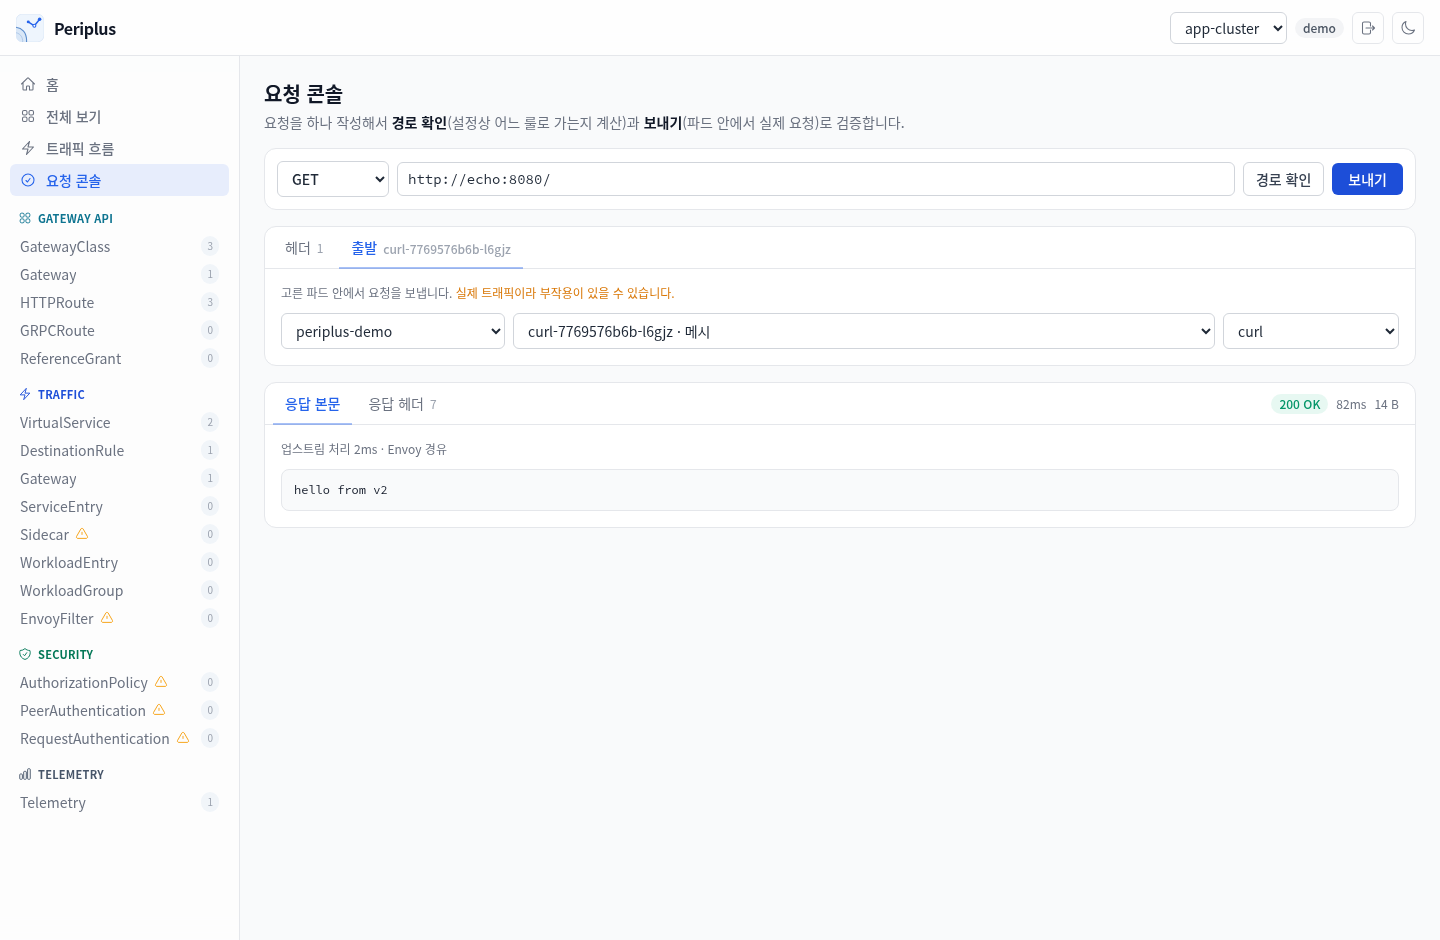
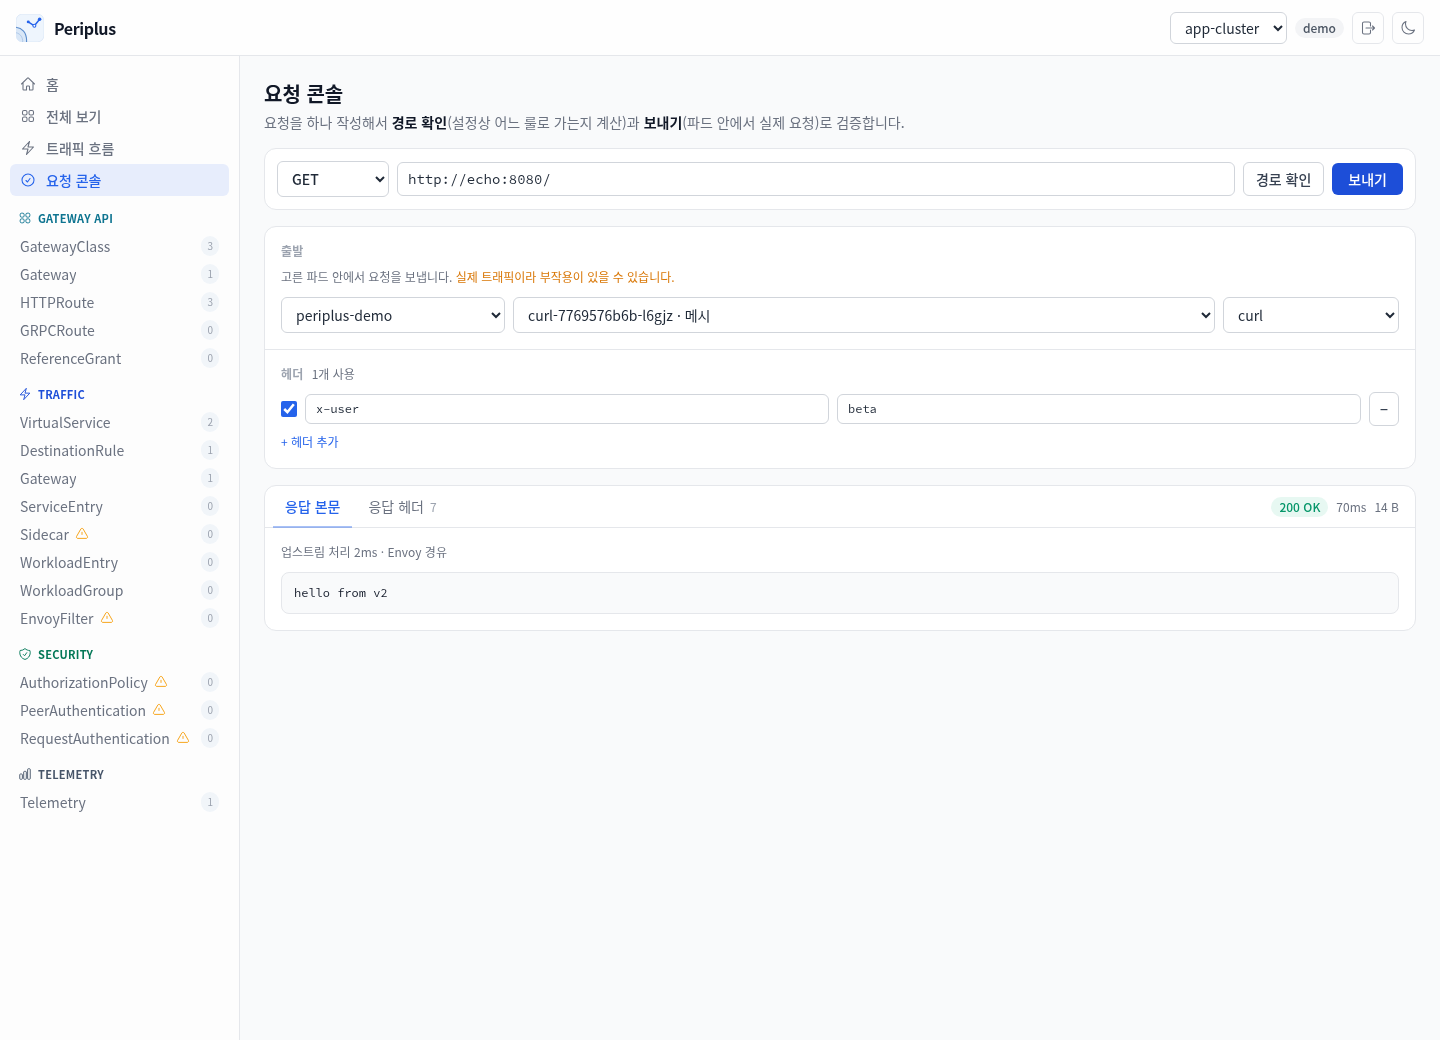
요청 콘솔: 요청 편집 탭을 없애고 한 화면에 펼침
출발지를 먼저 고르고 그 아래에서 헤더·본문을 채우는 순서가 실제 사용 흐름과
맞다. 탭 전환 없이 한눈에 보이므로 무엇이 설정돼 있는지 놓치지 않는다.
(응답은 결과 종류가 달라 탭 유지 — 응답 본문·응답 헤더·경로 분석)

diff --git a/web/src/pages/RouteCheck.tsx b/web/src/pages/RouteCheck.tsx
@@ -9,7 +9,6 @@ import { Icon } from '../components/icons'
 
 const METHODS = ['GET', 'POST', 'PUT', 'PATCH', 'DELETE', 'HEAD', 'OPTIONS']
 type KV = { key: string; value: string; on: boolean }
-type ReqTab = 'headers' | 'body' | 'source'
 type ResTab = 'body' | 'headers' | 'route'
 
 // URL 한 줄에서 시뮬레이터가 쓸 호스트/경로를 뽑는다 (Istio 호스트에는 포트가 없다).
@@ -36,7 +35,6 @@ export function RouteCheck() {
   const [pod, setPod] = useState('')
   const [container, setContainer] = useState('')
 
-  const [reqTab, setReqTab] = useState<ReqTab>('headers')
   const [resTab, setResTab] = useState<ResTab>('route')
   const [route, setRoute] = useState<RouteMatchResult | null>(null)
   const [res, setRes] = useState<RequestTestResult | null>(null)
@@ -109,7 +107,7 @@ export function RouteCheck() {
         <button
           onClick={send}
           disabled={!canSend}
-          title={!testerOn ? '요청 테스터가 꺼져 있습니다 — 출발 탭 참고' : !ns || !pod ? '출발 탭에서 파드를 고르세요' : ''}
+          title={!testerOn ? '요청 테스터가 꺼져 있습니다 — 아래 출발 항목 참고' : !ns || !pod ? '아래 출발에서 파드를 고르세요' : ''}
           className="btn-primary shrink-0 disabled:opacity-40"
         >
           {busy === 'send' ? '보내는 중…' : '보내기'}
@@ -118,39 +116,34 @@ export function RouteCheck() {
       {url && !parsed && <p className="text-sm text-red-600 dark:text-red-400">URL 형식을 확인하세요.</p>}
       {error && <p className="text-sm text-red-600 dark:text-red-400">{error}</p>}
 
-      {/* 요청 편집 */}
+      {/* 요청 편집 — 출발지를 먼저 정하고 헤더·본문을 아래에서 채운다 */}
       <div className="panel rounded-xl">
-        <Tabs
-          tabs={[
-            { id: 'headers', label: '헤더', count: activeHeaders.length },
-            ...(hasBody ? [{ id: 'body', label: '본문' as const }] : []),
-            { id: 'source', label: '출발', hint: pod || (testerOn ? '미선택' : '꺼짐') },
-          ]}
-          active={reqTab}
-          onChange={(t) => setReqTab(t as ReqTab)}
-        />
-        <div className="p-4">
-          {reqTab === 'headers' && <HeaderEditor headers={headers} setHeaders={setHeaders} />}
-          {reqTab === 'body' && hasBody && (
+        <Section title="출발" hint={testerOn ? undefined : '요청 테스터 꺼짐 — 경로 확인만 가능'}>
+          <SourcePicker
+            enabled={testerOn}
+            isAdmin={caps.data?.role === 'admin'}
+            ns={ns} setNs={(v) => { setNs(v); setPod('') }}
+            pod={pod} setPod={setPod}
+            container={container} setContainer={setContainer}
+          />
+        </Section>
+
+        <Section title="헤더" hint={activeHeaders.length ? `${activeHeaders.length}개 사용` : undefined} bordered>
+          <HeaderEditor headers={headers} setHeaders={setHeaders} />
+        </Section>
+
+        {hasBody && (
+          <Section title="본문" bordered>
             <textarea
               value={body}
               onChange={(e) => setBody(e.target.value)}
               placeholder='{"name": "값"}'
-              rows={6}
+              rows={5}
               spellCheck={false}
               className="input-base w-full font-mono text-xs"
             />
-          )}
-          {reqTab === 'source' && (
-            <SourcePicker
-              enabled={testerOn}
-              isAdmin={caps.data?.role === 'admin'}
-              ns={ns} setNs={(v) => { setNs(v); setPod('') }}
-              pod={pod} setPod={setPod}
-              container={container} setContainer={setContainer}
-            />
-          )}
-        </div>
+          </Section>
+        )}
       </div>
 
       {/* 응답 */}
@@ -183,6 +176,26 @@ export function RouteCheck() {
         </div>
       )}
     </div>
+  )
+}
+
+// 요청 편집 패널의 한 구획 (제목 + 내용). 탭 대신 한 화면에 쌓는다.
+function Section({
+  title, hint, bordered, children,
+}: {
+  title: string
+  hint?: string
+  bordered?: boolean
+  children: ReactNode
+}) {
+  return (
+    <section className={`space-y-2.5 p-4 ${bordered ? 'border-t border-gray-200 dark:border-slate-700' : ''}`}>
+      <div className="flex items-baseline gap-2">
+        <h3 className="text-xs font-semibold uppercase tracking-wide text-faint">{title}</h3>
+        {hint && <span className="text-xs text-muted">{hint}</span>}
+      </div>
+      {children}
+    </section>
   )
 }
 

diff --git a/internal/assets/dist/index.html b/internal/assets/dist/index.html
@@ -7,8 +7,8 @@
     <title>Periplus</title>
     <!-- 페인트 전에 저장된 테마 적용 (CSP script-src 'self' 유지를 위해 외부 파일) -->
     <script src="/theme-init.js"></script>
-    <script type="module" crossorigin src="/assets/index-DiQKvV0m.js"></script>
-    <link rel="stylesheet" crossorigin href="/assets/index-qyRhT72X.css">
+    <script type="module" crossorigin src="/assets/index-Cj0v5F0-.js"></script>
+    <link rel="stylesheet" crossorigin href="/assets/index-CctdfXOZ.css">
   </head>
   <body>
     <div id="root"></div>
